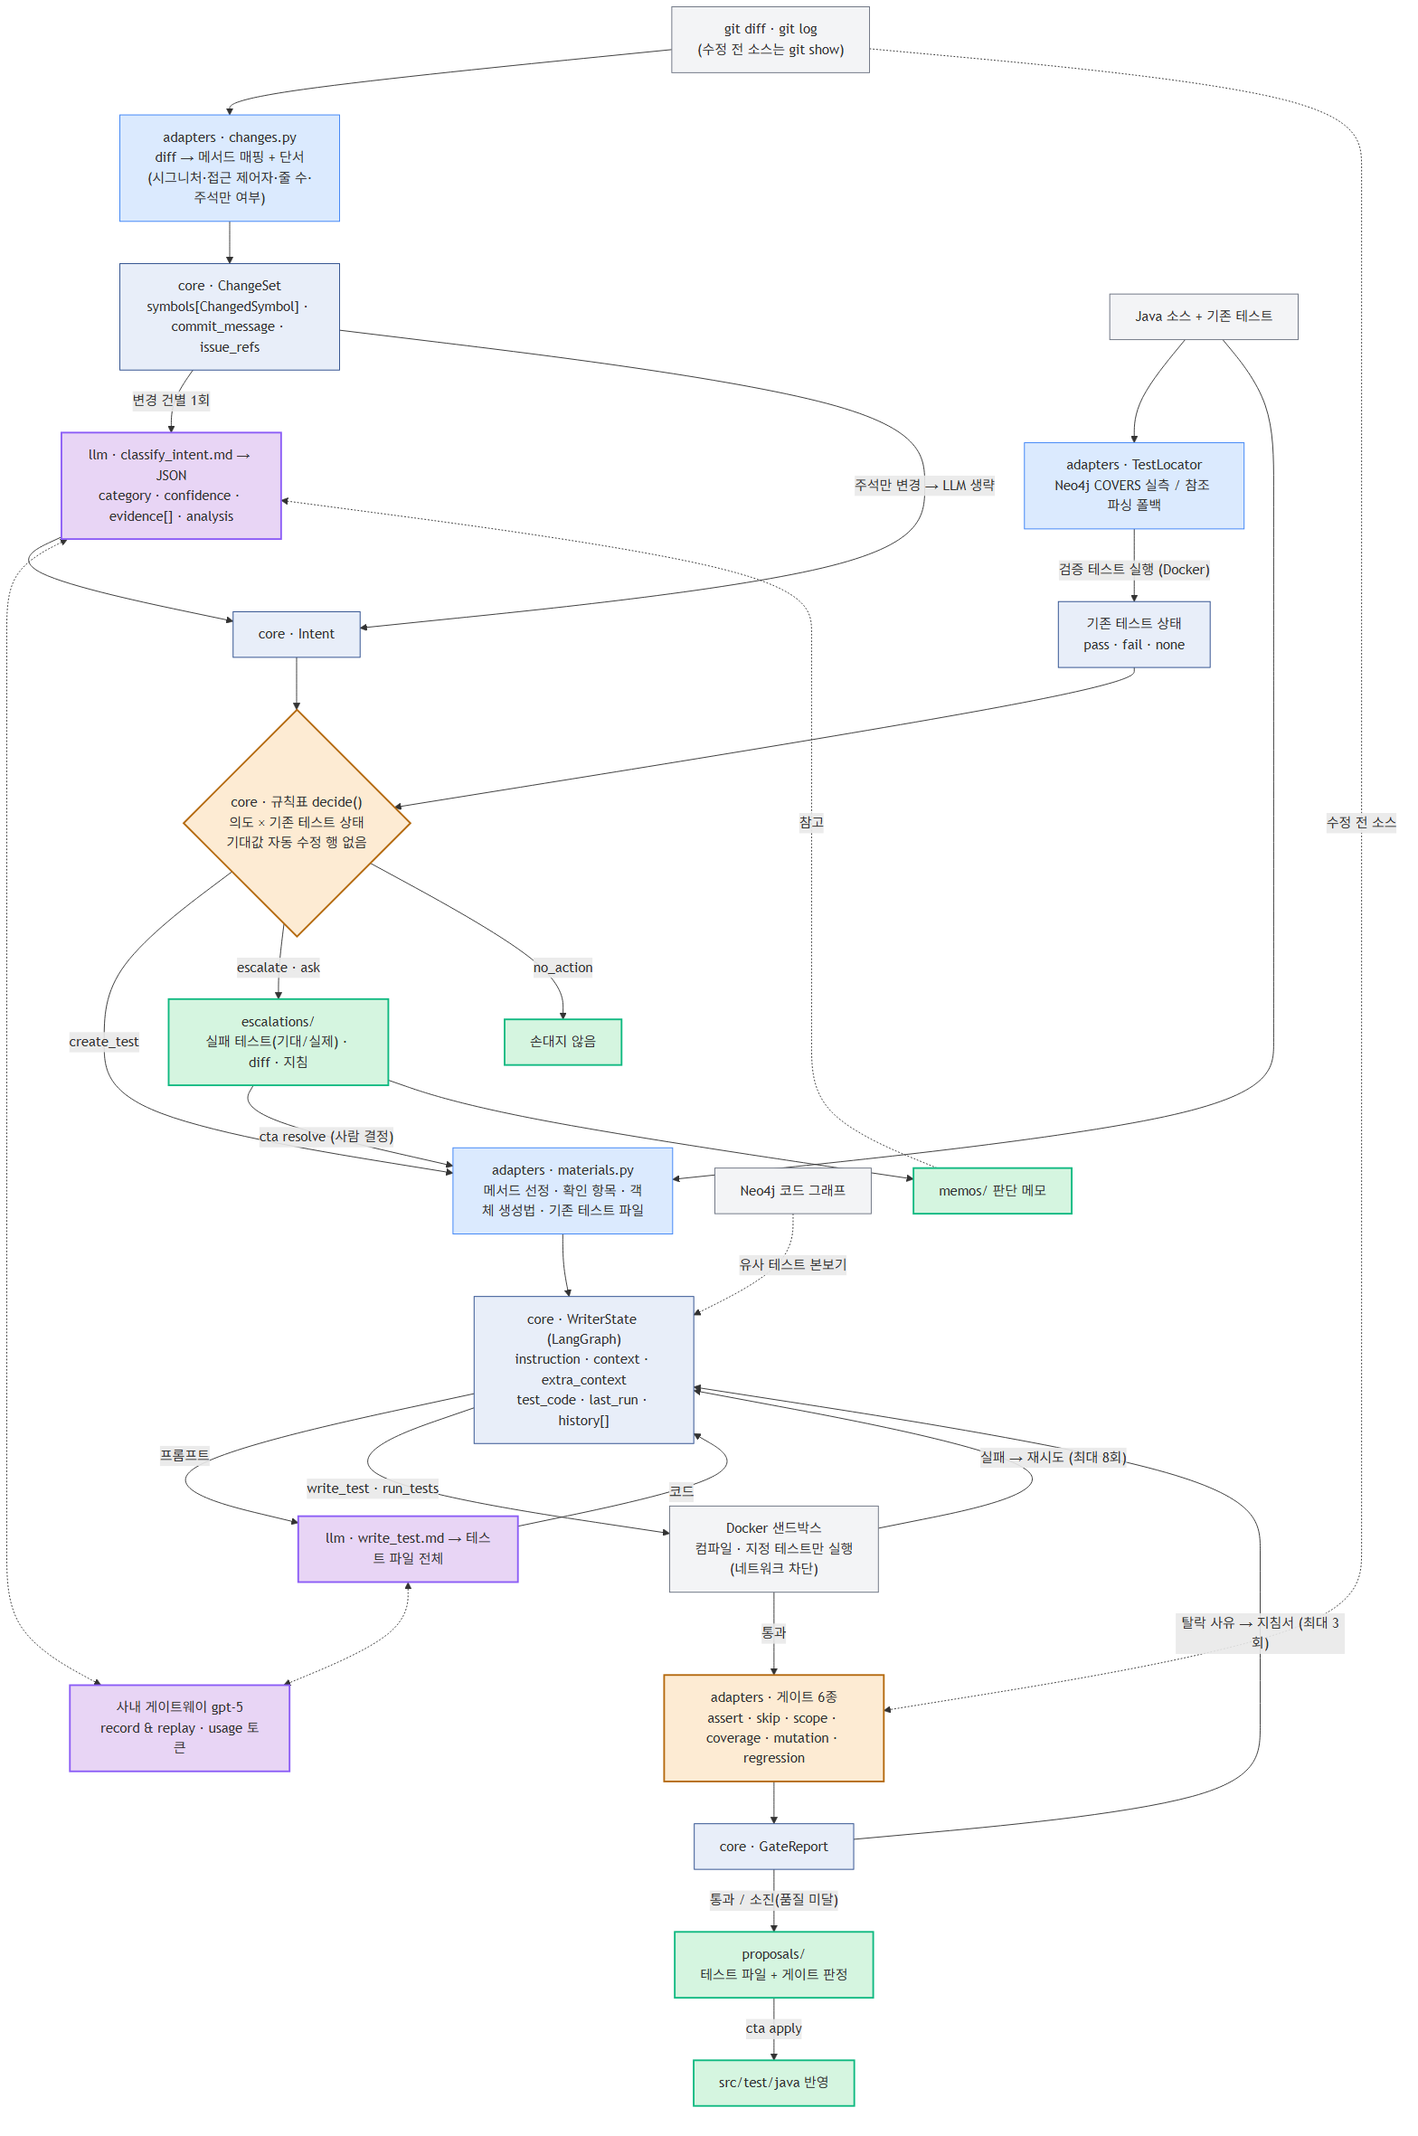
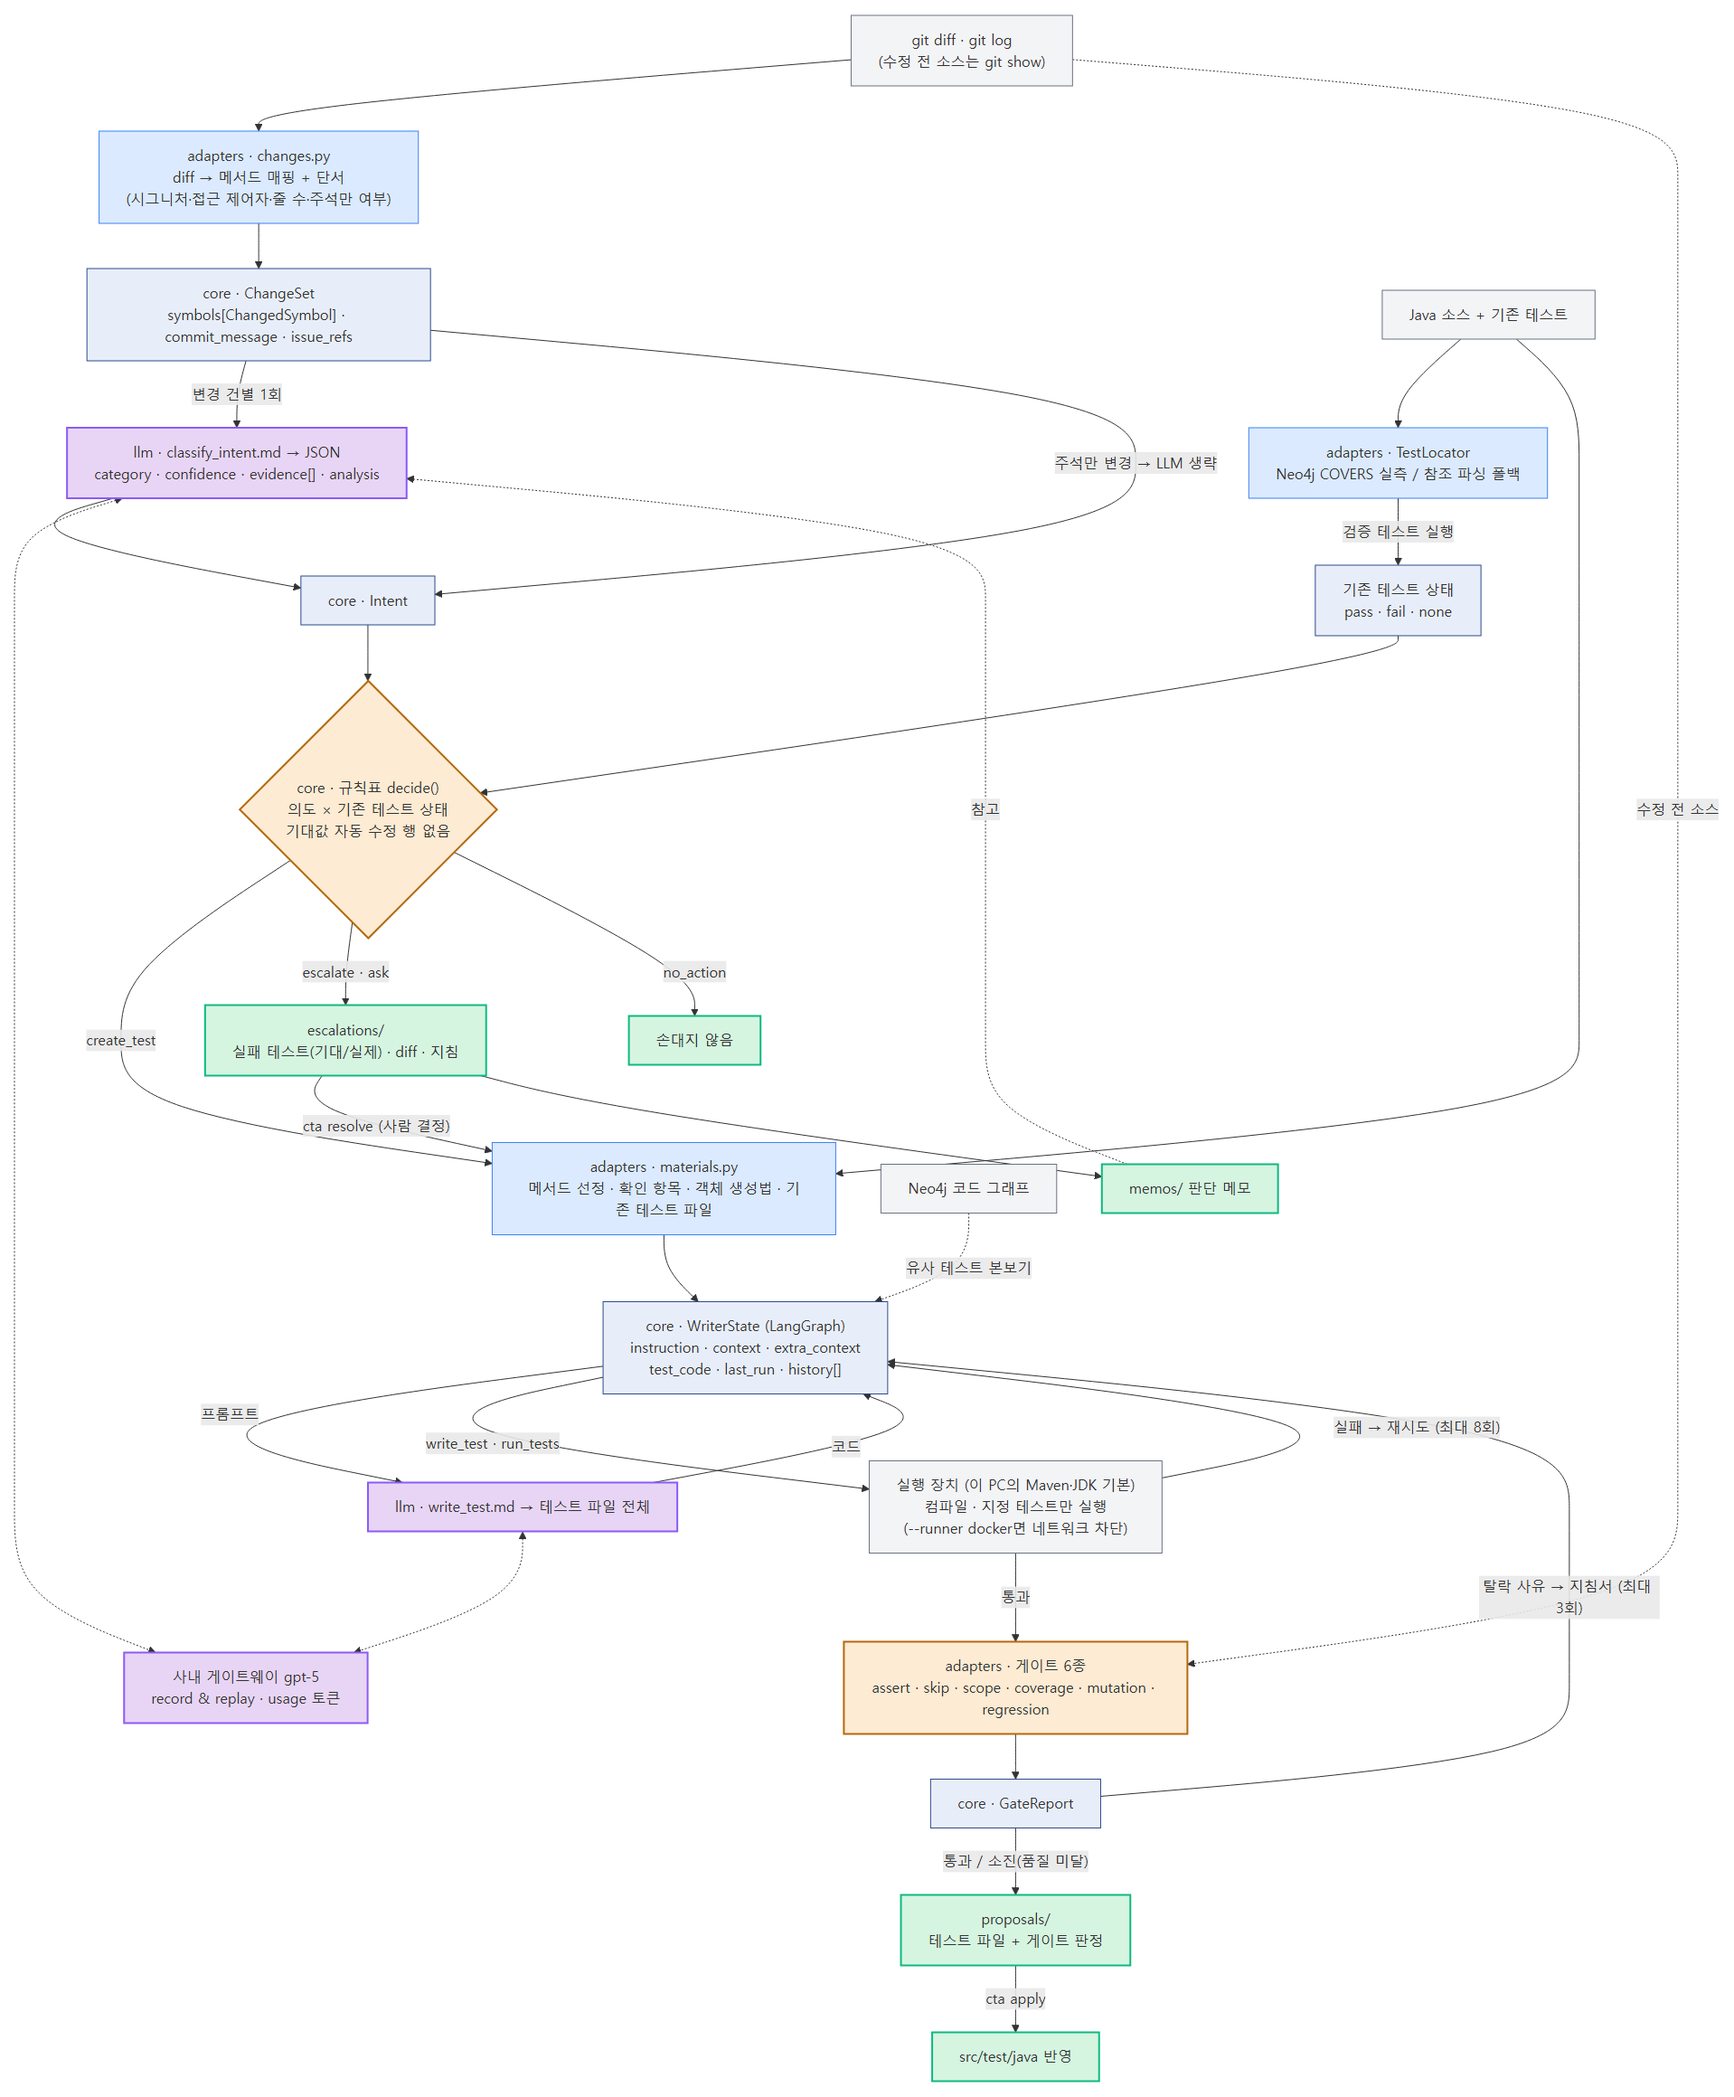
산출물·E2E 기록 — 로컬 실행 기본 반영, 최종보고에 스킬 절 추가, 다이어그램 7종 재렌더
- 최종보고: §1 "테스트 작성 스킬" 절 신설(스킬 2개 표·규칙 선택·skills-flow 그림·지키는 것/한계), 실행 장치 서술을 로컬 기본으로,
  KPI 참고 행에 로컬 게이트 실측(커버리지 9.5초·뮤테이션 30초), 운영·보안 "실행 격리" 재작성
- E2E서비스개발 §3.2b 로컬 실행(기본 실행 장치)로 재작성, 핵심구현의 "Docker 실행" 표기를 실행 장치로
- E2E/README 진행 상태, 작업목록 C-7, e2e-notes 9주차(로컬 게이트·데모 재생 실측)
- 다이어그램: e2e-architecture(실행 장치 노드)·e2e-status·workflow·workflow-5steps·workflow-data·workflow-summary·tools 수정 후 재렌더
  (LR 그림은 잘리지 않게 캔버스를 넓혀 렌더)
- phase3 스킬 문서 MCP 항목 정리(이전 작업분)

diff --git a/docs/E2E/작업목록.md b/docs/E2E/작업목록.md
@@ -83,15 +83,6 @@
 - **왜**: 베이스라인 미검출 1건(truncate-boundary)이 경계 off-by-one이었다.
 - **검증**: 하네스 전/후. truncate-boundary 검출 여부 + 전체 검출률.
 
-### B-4. MCP 서버 [b] — 구현 후 제거 (ADR-0021, 2026-09-07)
-
-> 2026-09-06 구현·검증(in-process)까지 했으나, 발표·시연 볼륨을 줄이려는 사용자 결정으로 제거했다. 아래는 계획 원문이다.
-
-- **무엇**: `cta/mcp/server.py`. 노출하는 것은 CLI 명령과 1:1 — `generate`, `maintain`, `resolve`, `list_proposals`(diff), `apply`. 각 핸들러는 `cli/*_cmd.py`가 쓰는 core 조립 함수를 그대로 호출한다. → 실제: 핸들러(`cta/mcp/handlers.py`)는 한 층 위인 CLI 함수(`cli.main._cmd_generate/_cmd_diff/_cmd_apply`, `run_maintain`, `run_resolve`)를 Namespace로 호출하고 stdout을 캡처한다. `resolve`는 intended/test-issue/proceed/skip만 받고 `--as`(ADR-0020)는 아직 없다.
-- **왜**: 스킬 M8. Claude Code 등에서 도구로 호출. 3단계 "발표의 뼈대" 중 하나.
-- **어떻게**: **의존성 추가 전에 묻기**(`mcp` SDK). ADR 한 장 — "MCP 도구 5개는 에이전트 내부 도구 6개(R4)와 다른 층이다"를 명시해 R4 혼동을 막는다. 긴 작업(generate 5~10분)은 MCP 응답 시간 초과를 넘기므로 작업 시작 → 진행 조회 → 결과 조회의 3단계로 나눌지, 동기로 두고 시간 초과를 늘릴지 먼저 결정. 시크릿은 서버 프로세스의 환경변수로만.
-- **검증**: Claude Code에 MCP 서버 등록 → `generate` 호출 → 제안 생성 확인 캡처. CLI와 MCP가 같은 함수를 호출하는지 grep으로 중복 없음 확인. `mcp-server-dev` 플러그인(README 2군)으로 검사.
-
 ### B-5. 판단 메모 검색 강화 + 불변식 테스트 [b]
 
 - **무엇**: ① 게이트웨이가 임베딩 API를 제공하는지 확인. 제공하면 메모 `note`+`target` 임베딩 후 코사인 상위 3건. 미제공이면 키워드 검색(현행) 유지를 문서에 명시. ② 불변식 테스트 — 메모가 어떤 내용이어도 `decide()` 결과가 바뀌지 않음(`memos` 인자는 `IntentClassifier`에만 들어가고 규칙표는 받지 않는다는 것을 테스트로 고정).
@@ -147,7 +138,7 @@
 
 ### C-7. 크로스플랫폼 확인 [c]
 
-- **무엇**: Linux(WSL 또는 CI 러너)에서 `pip install` → `cta demo`(재생, Docker 필요) 1회. Docker 마운트 경로·줄바꿈·폰트 의존(`render_capture.py`는 산출물용이므로 제외) 점검.
+- **무엇**: Linux(WSL 또는 CI 러너)에서 `pip install` → `cta demo`(재생) 1회. 줄바꿈·폰트 의존(`render_capture.py`는 산출물용이므로 제외) 점검.
 - **왜**: 지금까지 전부 Windows에서 실측했다. "남이 돌린다"의 남은 대부분 Linux·macOS다.
 - **검증**: Linux 실행 로그 1건. 막힌 것은 사용가이드 문제 해결 절에.
 
@@ -159,7 +150,7 @@
 |---|---|---|
 | 1 | A-1 CI → A-3 시크릿 → A-2 설정 → A-4 종료 코드 → A-5 에러 문구 → A-6 압축 ADR | CI 그린, 시크릿 3 초록, `cta.toml` 한 파일 |
 | 2 | B-1 스킬(ADR → 2개 → 기록 재생성) → B-2 결함 세트 v2 → B-3 경계값 실험 → B-1 전/후 측정 | 전/후 표 |
-| 3 | B-4 MCP(의존성 질문 → ADR → 서버) → B-5 메모 불변식 | Claude Code에서 generate 1회 |
+| 3 | B-5 메모 불변식 | 메모가 규칙표를 우회하지 못함을 테스트로 고정 |
 | 4 | C-1 데모 3회 → C-2 README → C-3 설치 테스트 → C-4 정합 → C-5 한계 → C-7 Linux → C-6 산출물 | 릴리스체크리스트 전부 |
 
-사용자 결정이 필요한 지점 세 곳: B-1 1번(멘토 확인), B-4(`mcp` 의존성 추가·동기/비동기), C-4 ①(ADR 원문 반입 여부). → 실제: B-1은 답이 없어 제품 워크플로우 해석으로 진행, B-4는 선택 의존성 `[mcp]`·동기 실행, C-4 ①은 0001~0008 원문 미반입(색인에 요약).
+사용자 결정이 필요한 지점 두 곳: B-1 1번(멘토 확인), C-4 ①(ADR 원문 반입 여부). → 실제: B-1은 답이 없어 제품 워크플로우 해석으로 진행, C-4 ①은 0001~0008 원문 미반입(색인에 요약).

diff --git a/docs/E2E/e2e-notes.md b/docs/E2E/e2e-notes.md
@@ -145,6 +145,18 @@
   다이어그램 `mcp-path` 삭제, `e2e-architecture`(진입점 하나)·`e2e-status`(B-4 제거 표기)·`config-precedence`(문구) 재렌더.
   작업 기록·계획 문서는 이력이라 "구현 후 제거"로만 표기
 
+### 9주차 — 실행 장치 기본값을 로컬로 (2026-09-07, 사용자 결정 "로컬 기준으로 진행")
+
+- **ADR-0022**(0019 일부 대체): `choose_runner`는 명시 없으면 항상 local. `--fast`는 커버리지·뮤테이션 게이트 생략만. Docker는 `--runner docker`.
+  `cta graph --coverage`·`cta demo`도 같은 규칙(`--runner` 옵션 추가, 준비 단계는 docker일 때만 — graph_cmd는 `ensure_prepared` 재사용으로 중복 제거).
+  `LOCAL_MODE_WARNING` → `LOCAL_MODE_NOTE`(기본값이므로 경고가 아니라 안내). R6 재정의, hints의 Docker·mvn 안내 문구 갱신
+- **로컬 게이트 실측(이 PC, Maven 3.9.16 + JDK 21, evalbench)** — ADR-0019의 미검증 항목: `JavaTestRunner(LocalSandbox).run("TextUtilTest")`
+  통과 **5.9초**, `JacocoCoverageCollector.measure` **9.5초**(TextUtil#countWords 1건), `measure_mutation` **30초**(20개 중 3개 검출 —
+  테스트 1건짜리 클래스라 낮은 것이 정상). 세 경로 모두 `-o`·`-Dmaven.repo.local` 제거 상태로 사용자 `~/.m2`에서 돌았다
+- **`cta demo` 로컬 재생**: 작업 트리의 `examples/demo`는 사용자가 실험 중(OrderService에 applyPenalty 추가)이라 저장된 기록과 프롬프트가
+  달라 불일치가 난다(예상된 동작, R7). HEAD의 예제로 만든 임시 worktree에서 재생 — 결과는 검증 기록
+- 문서: README·사용가이드(준비물·§12·문제 해결·한계)·architecture·contracts·CLAUDE.md·최종보고·E2E서비스개발·핵심구현·다이어그램 7종
+
 ## 검증 기록
 
 - 2026-09-06 착수 전 기준선: `pytest -q` 171 passed, 1 failed(memos 덮어쓰기), 4 deselected. ruff 통과
@@ -166,6 +178,8 @@
   이 PC: Docker 데몬 꺼짐, 로컬 Maven 3.9.16·JDK 21 있음, 게이트웨이 키 있음 — 실호출·Docker 실측은 하지 않았다
 - 2026-09-07 8주차(MCP 제거): `ruff check`·`format --check` 통과 · `pytest -q` **236 passed**, 4 deselected, skip 0(test_mcp 6건 삭제 — 이 venv에서는 모듈째 skip 1건이었다) ·
   `grep -ri mcp cta tests pyproject.toml .github` 0건 · `pip install -e .` 후 `cta --help` 정상
+- 2026-09-07 9주차(로컬 기본): ruff 통과 · `pytest -q` **236 passed**, 4 deselected · 로컬 게이트 실측(evalbench) 실행 5.9초 / 커버리지 9.5초 /
+  뮤테이션 30초 · **`cta demo` 로컬 재생 통과**(HEAD 예제의 임시 worktree, 이 PC의 Maven·JDK, 7개 테스트 통과, 시도 1회, **11.1초** — Docker 경로는 74초였다)
 
 ## 문제·리서치 로그
 
